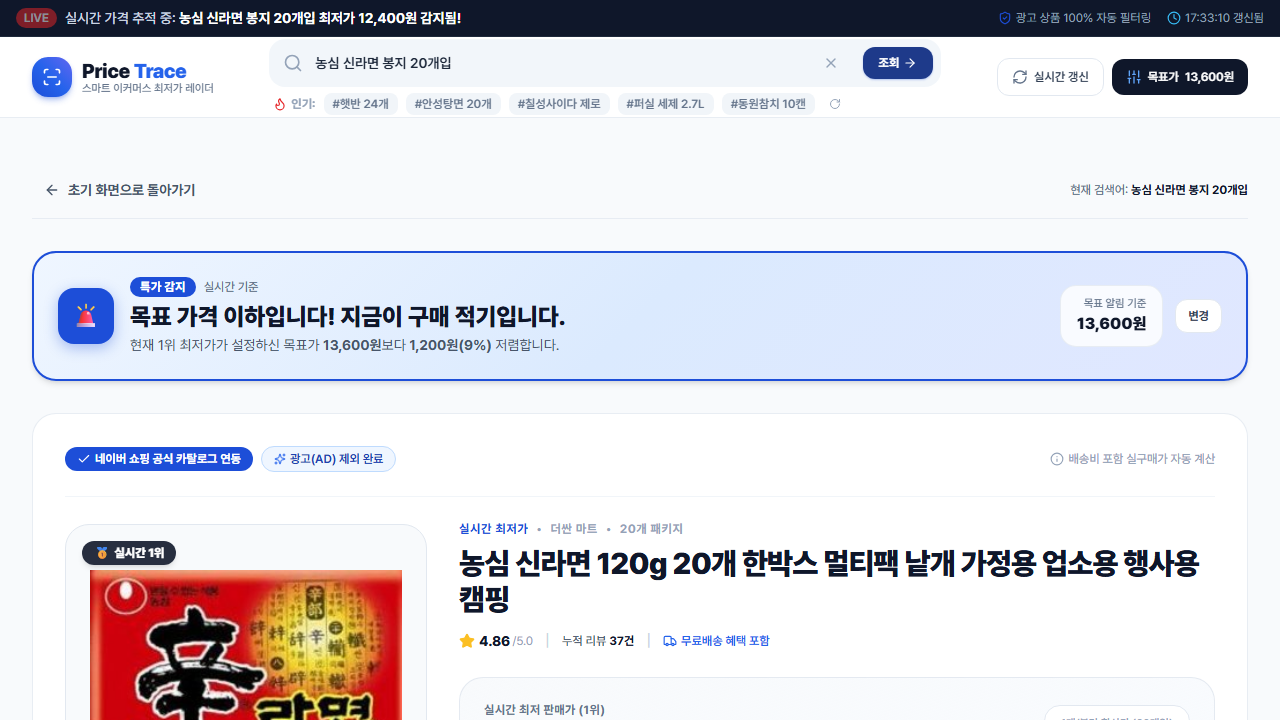
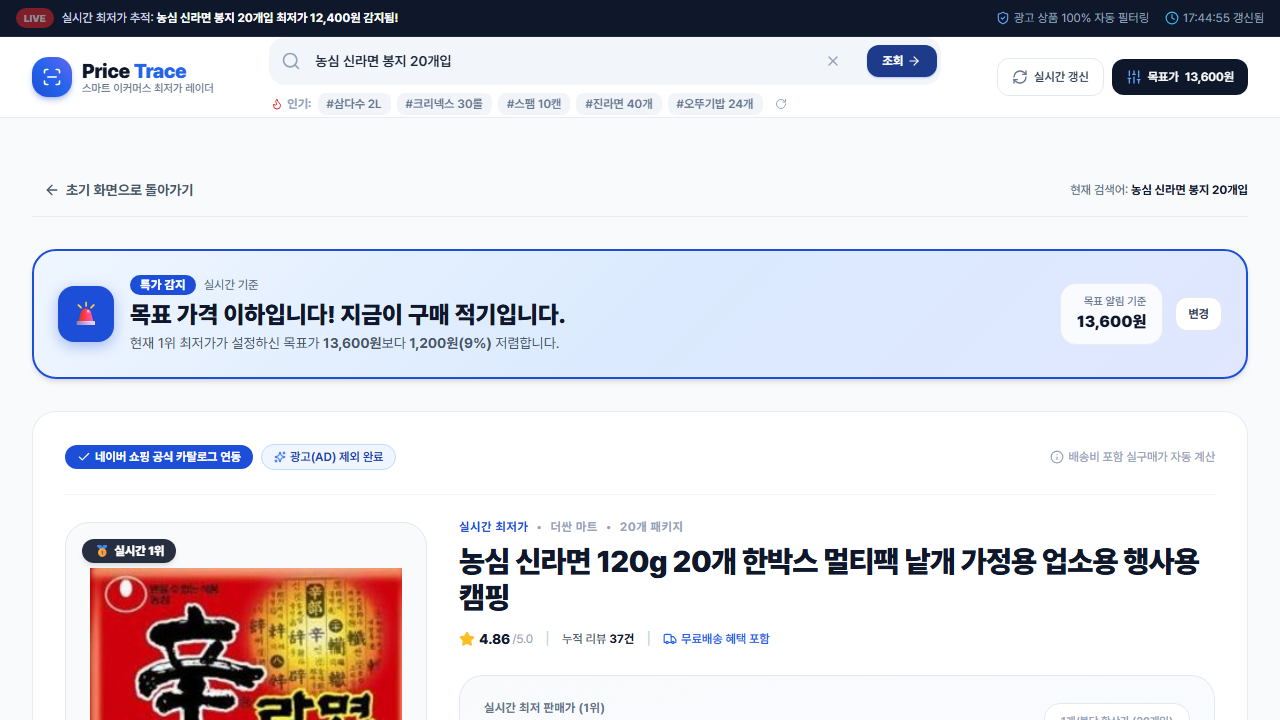
fix: 모바일 화면 정렬 및 반응형 2단 헤더·가로 스크롤 칩 최적화

diff --git a/public/index.html b/public/index.html
@@ -60,83 +60,108 @@
 </head>
 <body class="bg-surface-50 text-slate-800 font-sans antialiased selection:bg-lapis selection:text-white min-h-screen flex flex-col">
 
-  <!-- 1. 최상단 실시간 특가 알림 바 (쿠팡/네이버 공통 배너 스타일) -->
-  <div class="bg-slate-900 text-white text-xs sm:text-sm py-2 px-4 shadow-sm border-b border-slate-800">
+  <!-- 1. 최상단 실시간 특가 알림 바 (모바일 가독성 최적화) -->
+  <div class="bg-slate-900 text-white text-[11px] sm:text-xs py-1.5 sm:py-2 px-3 sm:px-4 shadow-sm border-b border-slate-800">
     <div class="max-w-7xl mx-auto flex items-center justify-between">
       <div class="flex items-center space-x-2 truncate">
-        <span class="inline-flex items-center justify-center px-2 py-0.5 rounded-full text-xs font-semibold bg-coupang text-white animate-pulse">
+        <span class="inline-flex items-center justify-center px-2 py-0.5 rounded-full text-[10px] font-extrabold bg-coupang text-white animate-pulse shrink-0">
           LIVE
         </span>
         <span class="font-medium text-slate-300 truncate">
-          실시간 가격 추적 중: <strong class="text-white font-bold" id="topBannerText">농심 신라면 20개입 최저가 감지됨!</strong>
+          실시간 최저가 추적: <strong class="text-white font-bold" id="topBannerText">농심 신라면 20개입 최저가 감지됨!</strong>
         </span>
       </div>
-      <div class="hidden md:flex items-center space-x-4 text-xs text-slate-400">
-        <span class="flex items-center"><i data-lucide="shield-check" class="w-3.5 h-3.5 mr-1 text-naver"></i> 광고 상품 100% 자동 필터링</span>
+      <div class="hidden md:flex items-center space-x-4 text-xs text-slate-400 shrink-0">
+        <span class="flex items-center"><i data-lucide="shield-check" class="w-3.5 h-3.5 mr-1 text-blue-400"></i> 광고 상품 100% 자동 필터링</span>
         <span class="flex items-center"><i data-lucide="clock" class="w-3.5 h-3.5 mr-1 text-sky-400"></i> <span id="lastUpdatedTime">방금 갱신됨</span></span>
       </div>
     </div>
   </div>
 
-  <!-- 2. GNB 헤더 (네이버 쇼핑/지마켓 스타일 스마트 검색바) -->
-  <header class="sticky top-0 z-40 bg-white/90 backdrop-blur-md border-b border-slate-200/80 shadow-xs">
-    <div class="max-w-7xl mx-auto px-4 sm:px-6 lg:px-8 h-20 flex items-center justify-between gap-4">
+  <!-- 2. GNB 헤더 (모바일 반응형 2단 / 데스크톱 1단 완벽 최적화) -->
+  <header class="sticky top-0 z-40 bg-white/95 backdrop-blur-md border-b border-slate-200/80 shadow-xs">
+    <div class="max-w-7xl mx-auto px-3 sm:px-6 lg:px-8 py-2 md:py-0 md:h-20 flex flex-col md:flex-row md:items-center justify-between gap-2 md:gap-4">
       
-      <!-- 브랜드 로고 -->
-      <a href="/" class="flex items-center space-x-2.5 group shrink-0">
-        <div class="w-10 h-10 rounded-2xl bg-gradient-to-tr from-blue-700 via-blue-600 to-indigo-500 flex items-center justify-center text-white shadow-md shadow-blue-700/30 group-hover:scale-105 transition-transform">
-          <i data-lucide="scan-line" class="w-5 h-5"></i>
-        </div>
-        <div>
-          <span class="text-xl font-black tracking-tight text-slate-900 flex items-center gap-1">
-            Price<span class="text-blue-600">Trace</span>
-          </span>
-          <p class="text-[11px] text-slate-500 font-medium -mt-1 hidden sm:block">스마트 이커머스 최저가 레이더</p>
-        </div>
-      </a>
+      <!-- 상단 줄: [브랜드 로고] + [모바일 전용 우측 컨트롤 버튼들] -->
+      <div class="flex items-center justify-between w-full md:w-auto shrink-0">
+        <a href="/" class="flex items-center space-x-2 sm:space-x-2.5 group shrink-0">
+          <div class="w-8 h-8 sm:w-10 sm:h-10 rounded-2xl bg-gradient-to-tr from-blue-700 via-blue-600 to-indigo-500 flex items-center justify-center text-white shadow-md shadow-blue-700/30 group-hover:scale-105 transition-transform">
+            <i data-lucide="scan-line" class="w-4 h-4 sm:w-5 sm:h-5"></i>
+          </div>
+          <div>
+            <span class="text-lg sm:text-xl font-black tracking-tight text-slate-900 flex items-center gap-1">
+              Price<span class="text-blue-600">Trace</span>
+            </span>
+            <p class="text-[10px] sm:text-[11px] text-slate-500 font-medium -mt-1 hidden sm:block">스마트 이커머스 최저가 레이더</p>
+          </div>
+        </a>
 
-      <!-- 중앙 검색창 (대표 이커머스 핵심 검색바) -->
-      <div class="flex-1 max-w-2xl relative">
+        <!-- 모바일 전용 상단 우측 컨트롤 버튼 (md:hidden) -->
+        <div class="flex md:hidden items-center space-x-1.5 shrink-0">
+          <button 
+            type="button" 
+            id="mobileRefreshBtn" 
+            title="실시간 갱신"
+            class="p-2 rounded-xl bg-slate-100 hover:bg-slate-200 text-slate-700 active:scale-95 transition-all cursor-pointer"
+          >
+            <i data-lucide="refresh-cw" class="w-4 h-4 text-slate-600"></i>
+          </button>
+          <button 
+            type="button" 
+            id="mobileOpenConfigModalBtn" 
+            title="목표가 설정"
+            class="flex items-center space-x-1 px-2.5 py-1.5 rounded-xl bg-slate-900 text-white text-xs font-bold active:scale-95 transition-all cursor-pointer"
+          >
+            <i data-lucide="sliders" class="w-3.5 h-3.5 text-blue-400"></i>
+            <span id="mobileBtnTargetPriceDisplay">15,000원</span>
+          </button>
+        </div>
+      </div>
+
+      <!-- 중앙 검색창 (모바일에서는 꽉 찬 너비, 데스크톱에서는 max-w-2xl) -->
+      <div class="w-full md:flex-1 md:max-w-2xl relative">
         <form id="searchForm" class="relative flex items-center">
-          <div class="absolute left-3.5 text-slate-400 pointer-events-none">
-            <i data-lucide="search" class="w-5 h-5"></i>
+          <div class="absolute left-3 text-slate-400 pointer-events-none">
+            <i data-lucide="search" class="w-4 h-4 sm:w-5 sm:h-5"></i>
           </div>
           <input 
             type="text" 
             id="searchInput" 
             value="" 
-            placeholder="원하시는 상품과 수량을 검색해 보세요 (예: 신라면 20개, 햇반 24개, 삼다수 2L)" 
+            placeholder="원하시는 상품과 수량 검색 (예: 신라면 20개, 햇반 24개)" 
             autocomplete="off"
-            class="w-full pl-11 pr-24 sm:pr-28 py-3 bg-slate-100/90 hover:bg-slate-100 focus:bg-white text-sm font-semibold rounded-2xl border-2 border-transparent focus:border-naver focus:ring-4 focus:ring-naver/10 transition-all outline-none"
+            class="w-full pl-9 pr-20 sm:pl-11 sm:pr-28 py-2.5 sm:py-3 bg-slate-100/90 hover:bg-slate-100 focus:bg-white text-xs sm:text-sm font-semibold rounded-2xl border-2 border-transparent focus:border-naver focus:ring-4 focus:ring-naver/10 transition-all outline-none"
           >
           <!-- 텍스트 지우기 버튼 -->
           <button 
             type="button" 
             id="clearSearchBtn" 
-            class="hidden absolute right-20 sm:right-24 p-1.5 text-slate-400 hover:text-slate-600 transition-colors"
+            class="hidden absolute right-14 sm:right-24 p-1 text-slate-400 hover:text-slate-600 transition-colors"
             title="검색어 지우기"
           >
-            <i data-lucide="x" class="w-4 h-4"></i>
+            <i data-lucide="x" class="w-3.5 h-3.5 sm:w-4 sm:h-4"></i>
           </button>
           <button 
             type="submit" 
-            class="absolute right-2 px-3.5 sm:px-4 py-2 bg-naver hover:bg-naver-dark text-white text-xs font-bold rounded-xl transition-all shadow-sm shadow-naver/30 flex items-center space-x-1"
+            class="absolute right-1 px-3 sm:px-4 py-1.5 sm:py-2 bg-naver hover:bg-naver-dark text-white text-xs font-bold rounded-xl transition-all shadow-sm shadow-naver/30 flex items-center space-x-1"
           >
             <span>조회</span>
-            <i data-lucide="arrow-right" class="w-3.5 h-3.5"></i>
+            <i data-lucide="arrow-right" class="w-3 h-3 sm:w-3.5 sm:h-3.5"></i>
           </button>
         </form>
 
-        <!-- 인기 검색어 / 빠른 태그 칩 (동적 셔플 & 로테이션) -->
-        <div class="flex flex-wrap items-center gap-1.5 sm:gap-2 mt-1.5 text-xs text-slate-500 px-1">
-          <span class="font-bold text-slate-400 flex items-center gap-1 shrink-0"><i data-lucide="flame" class="w-3.5 h-3.5 text-coupang"></i> 인기:</span>
-          <div id="quickChipsContainer" class="flex flex-wrap items-center gap-1.5 sm:gap-2">
+        <!-- 인기 검색어 / 빠른 태그 칩 (모바일 가로 스크롤 & 데스크톱 랩) -->
+        <div class="flex items-center gap-1.5 mt-1 sm:mt-1.5 text-xs text-slate-500 overflow-x-auto no-scrollbar py-0.5 px-0.5">
+          <span class="font-bold text-slate-400 flex items-center gap-1 shrink-0 text-[11px] sm:text-xs">
+            <i data-lucide="flame" class="w-3 h-3 text-coupang"></i> 인기:
+          </span>
+          <div id="quickChipsContainer" class="flex items-center gap-1.5 shrink-0">
             <!-- JS 동적 렌더링 -->
           </div>
           <button 
             type="button" 
             id="shuffleChipsBtn" 
-            class="px-1.5 py-0.5 rounded text-slate-400 hover:text-blue-600 hover:bg-blue-50 transition-colors flex items-center gap-0.5 text-[11px]" 
+            class="px-1.5 py-0.5 rounded text-slate-400 hover:text-blue-600 hover:bg-blue-50 transition-colors flex items-center gap-0.5 text-[11px] shrink-0 cursor-pointer" 
             title="다른 추천 키워드 보기"
           >
             <i data-lucide="rotate-cw" class="w-3 h-3"></i>
@@ -144,12 +169,12 @@
         </div>
       </div>
 
-      <!-- 우측 컨트롤 버튼 (새로고침 & 목표가 설정) -->
-      <div class="flex items-center space-x-2 shrink-0">
+      <!-- 데스크톱 전용 우측 컨트롤 버튼 (hidden md:flex) -->
+      <div class="hidden md:flex items-center space-x-2 shrink-0">
         <button 
           id="refreshBtn" 
           title="네이버 쇼핑 실시간 최신화"
-          class="flex items-center space-x-1.5 px-3.5 py-2.5 rounded-xl bg-white border border-slate-200 hover:border-slate-300 hover:bg-slate-50 text-slate-700 text-xs font-semibold shadow-xs transition-all active:scale-95"
+          class="flex items-center space-x-1.5 px-3.5 py-2.5 rounded-xl bg-white border border-slate-200 hover:border-slate-300 hover:bg-slate-50 text-slate-700 text-xs font-semibold shadow-xs transition-all active:scale-95 cursor-pointer"
         >
           <i data-lucide="refresh-cw" id="refreshIcon" class="w-4 h-4 text-slate-500"></i>
           <span class="hidden sm:inline">실시간 갱신</span>
@@ -157,7 +182,7 @@
 
         <button 
           id="openConfigModalBtn" 
-          class="flex items-center space-x-1.5 px-3.5 py-2.5 rounded-xl bg-slate-900 hover:bg-slate-800 text-white text-xs font-semibold shadow-xs transition-all active:scale-95"
+          class="flex items-center space-x-1.5 px-3.5 py-2.5 rounded-xl bg-slate-900 hover:bg-slate-800 text-white text-xs font-semibold shadow-xs transition-all active:scale-95 cursor-pointer"
         >
           <i data-lucide="sliders" class="w-4 h-4 text-blue-400"></i>
           <span class="hidden sm:inline">목표가</span> <span id="btnTargetPriceDisplay">15,000원</span>
@@ -288,17 +313,17 @@
     <div id="resultView" class="space-y-8 hidden">
 
       <!-- 상단 네비게이션 (홈으로 돌아가기 & 현재 검색어 정보) -->
-      <div class="flex items-center justify-between pb-3 border-b border-slate-200/80">
+      <div class="flex flex-col sm:flex-row sm:items-center justify-between gap-1.5 pb-2.5 border-b border-slate-200/80">
         <button 
           id="backToHomeBtn" 
           type="button" 
-          class="inline-flex items-center space-x-2 text-xs sm:text-sm font-bold text-slate-600 hover:text-naver transition-colors group px-3 py-1.5 rounded-xl hover:bg-slate-100"
+          class="inline-flex items-center space-x-1.5 text-xs sm:text-sm font-bold text-slate-600 hover:text-blue-600 transition-colors group px-2 sm:px-3 py-1.5 rounded-xl hover:bg-slate-100 self-start"
         >
           <i data-lucide="arrow-left" class="w-4 h-4 group-hover:-translate-x-1 transition-transform"></i>
           <span>초기 화면으로 돌아가기</span>
         </button>
 
-        <div class="text-xs text-slate-500 font-medium">
+        <div class="text-xs text-slate-500 font-medium pl-1 sm:pl-0">
           현재 검색어: <strong id="currentSearchKeywordText" class="text-slate-900 font-bold"></strong>
         </div>
       </div>

diff --git a/public/app.js b/public/app.js
@@ -223,6 +223,7 @@ const elements = {
   alertDescription: document.getElementById("alertDescription"),
   currentSetTargetPrice: document.getElementById("currentSetTargetPrice"),
   btnTargetPriceDisplay: document.getElementById("btnTargetPriceDisplay"),
+  mobileBtnTargetPriceDisplay: document.getElementById("mobileBtnTargetPriceDisplay"),
 
   // 검색
   searchForm: document.getElementById("searchForm"),
@@ -231,6 +232,8 @@ const elements = {
   quickChipsContainer: document.getElementById("quickChipsContainer"),
   shuffleChipsBtn: document.getElementById("shuffleChipsBtn"),
   refreshBtn: document.getElementById("refreshBtn"),
+  mobileRefreshBtn: document.getElementById("mobileRefreshBtn"),
+  mobileOpenConfigModalBtn: document.getElementById("mobileOpenConfigModalBtn"),
   refreshIcon: document.getElementById("refreshIcon"),
 
   // 히어로 대시보드
@@ -381,7 +384,8 @@ function renderAll(data) {
   } = data;
 
   // 헤더 및 시간 업데이트
-  elements.btnTargetPriceDisplay.textContent = `${formatCurrency(target_price)}원`;
+  if (elements.btnTargetPriceDisplay) elements.btnTargetPriceDisplay.textContent = `${formatCurrency(target_price)}원`;
+  if (elements.mobileBtnTargetPriceDisplay) elements.mobileBtnTargetPriceDisplay.textContent = `${formatCurrency(target_price)}원`;
   elements.currentSetTargetPrice.textContent = `${formatCurrency(target_price)}원`;
   elements.lastUpdatedTime.textContent = timestamp ? timestamp.split(" ")[1] + " 갱신됨" : "방금 갱신됨";
   elements.topBannerText.textContent = `${keyword} 최저가 ${formatCurrency(lowest_price)}원 감지됨!`;
@@ -820,7 +824,17 @@ function initEventListeners() {
     elements.configModal.classList.add("hidden");
   };
 
-  elements.openConfigModalBtn.addEventListener("click", openModal);
+  if (elements.openConfigModalBtn) {
+    elements.openConfigModalBtn.addEventListener("click", openModal);
+  }
+  if (elements.mobileOpenConfigModalBtn) {
+    elements.mobileOpenConfigModalBtn.addEventListener("click", openModal);
+  }
+  if (elements.mobileRefreshBtn) {
+    elements.mobileRefreshBtn.addEventListener("click", () => {
+      elements.refreshBtn.click();
+    });
+  }
   if (elements.quickTargetEditBtn) {
     elements.quickTargetEditBtn.addEventListener("click", openModal);
   }
@@ -867,6 +881,9 @@ function initEventListeners() {
       state.targetPrice = newTarget;
       if (elements.btnTargetPriceDisplay) {
         elements.btnTargetPriceDisplay.textContent = formatCurrency(newTarget) + "원";
+      }
+      if (elements.mobileBtnTargetPriceDisplay) {
+        elements.mobileBtnTargetPriceDisplay.textContent = formatCurrency(newTarget) + "원";
       }
       if (state.keyword && state.keyword.trim()) {
         loadPriceData(state.keyword, newTarget);

diff --git a/public/style.css b/public/style.css
@@ -107,3 +107,12 @@ html {
     backdrop-filter: blur(4px);
   }
 }
+
+/* 스크롤바 숨기기 (모바일 가로 스크롤용) */
+.no-scrollbar::-webkit-scrollbar {
+  display: none;
+}
+.no-scrollbar {
+  -ms-overflow-style: none;
+  scrollbar-width: none;
+}
